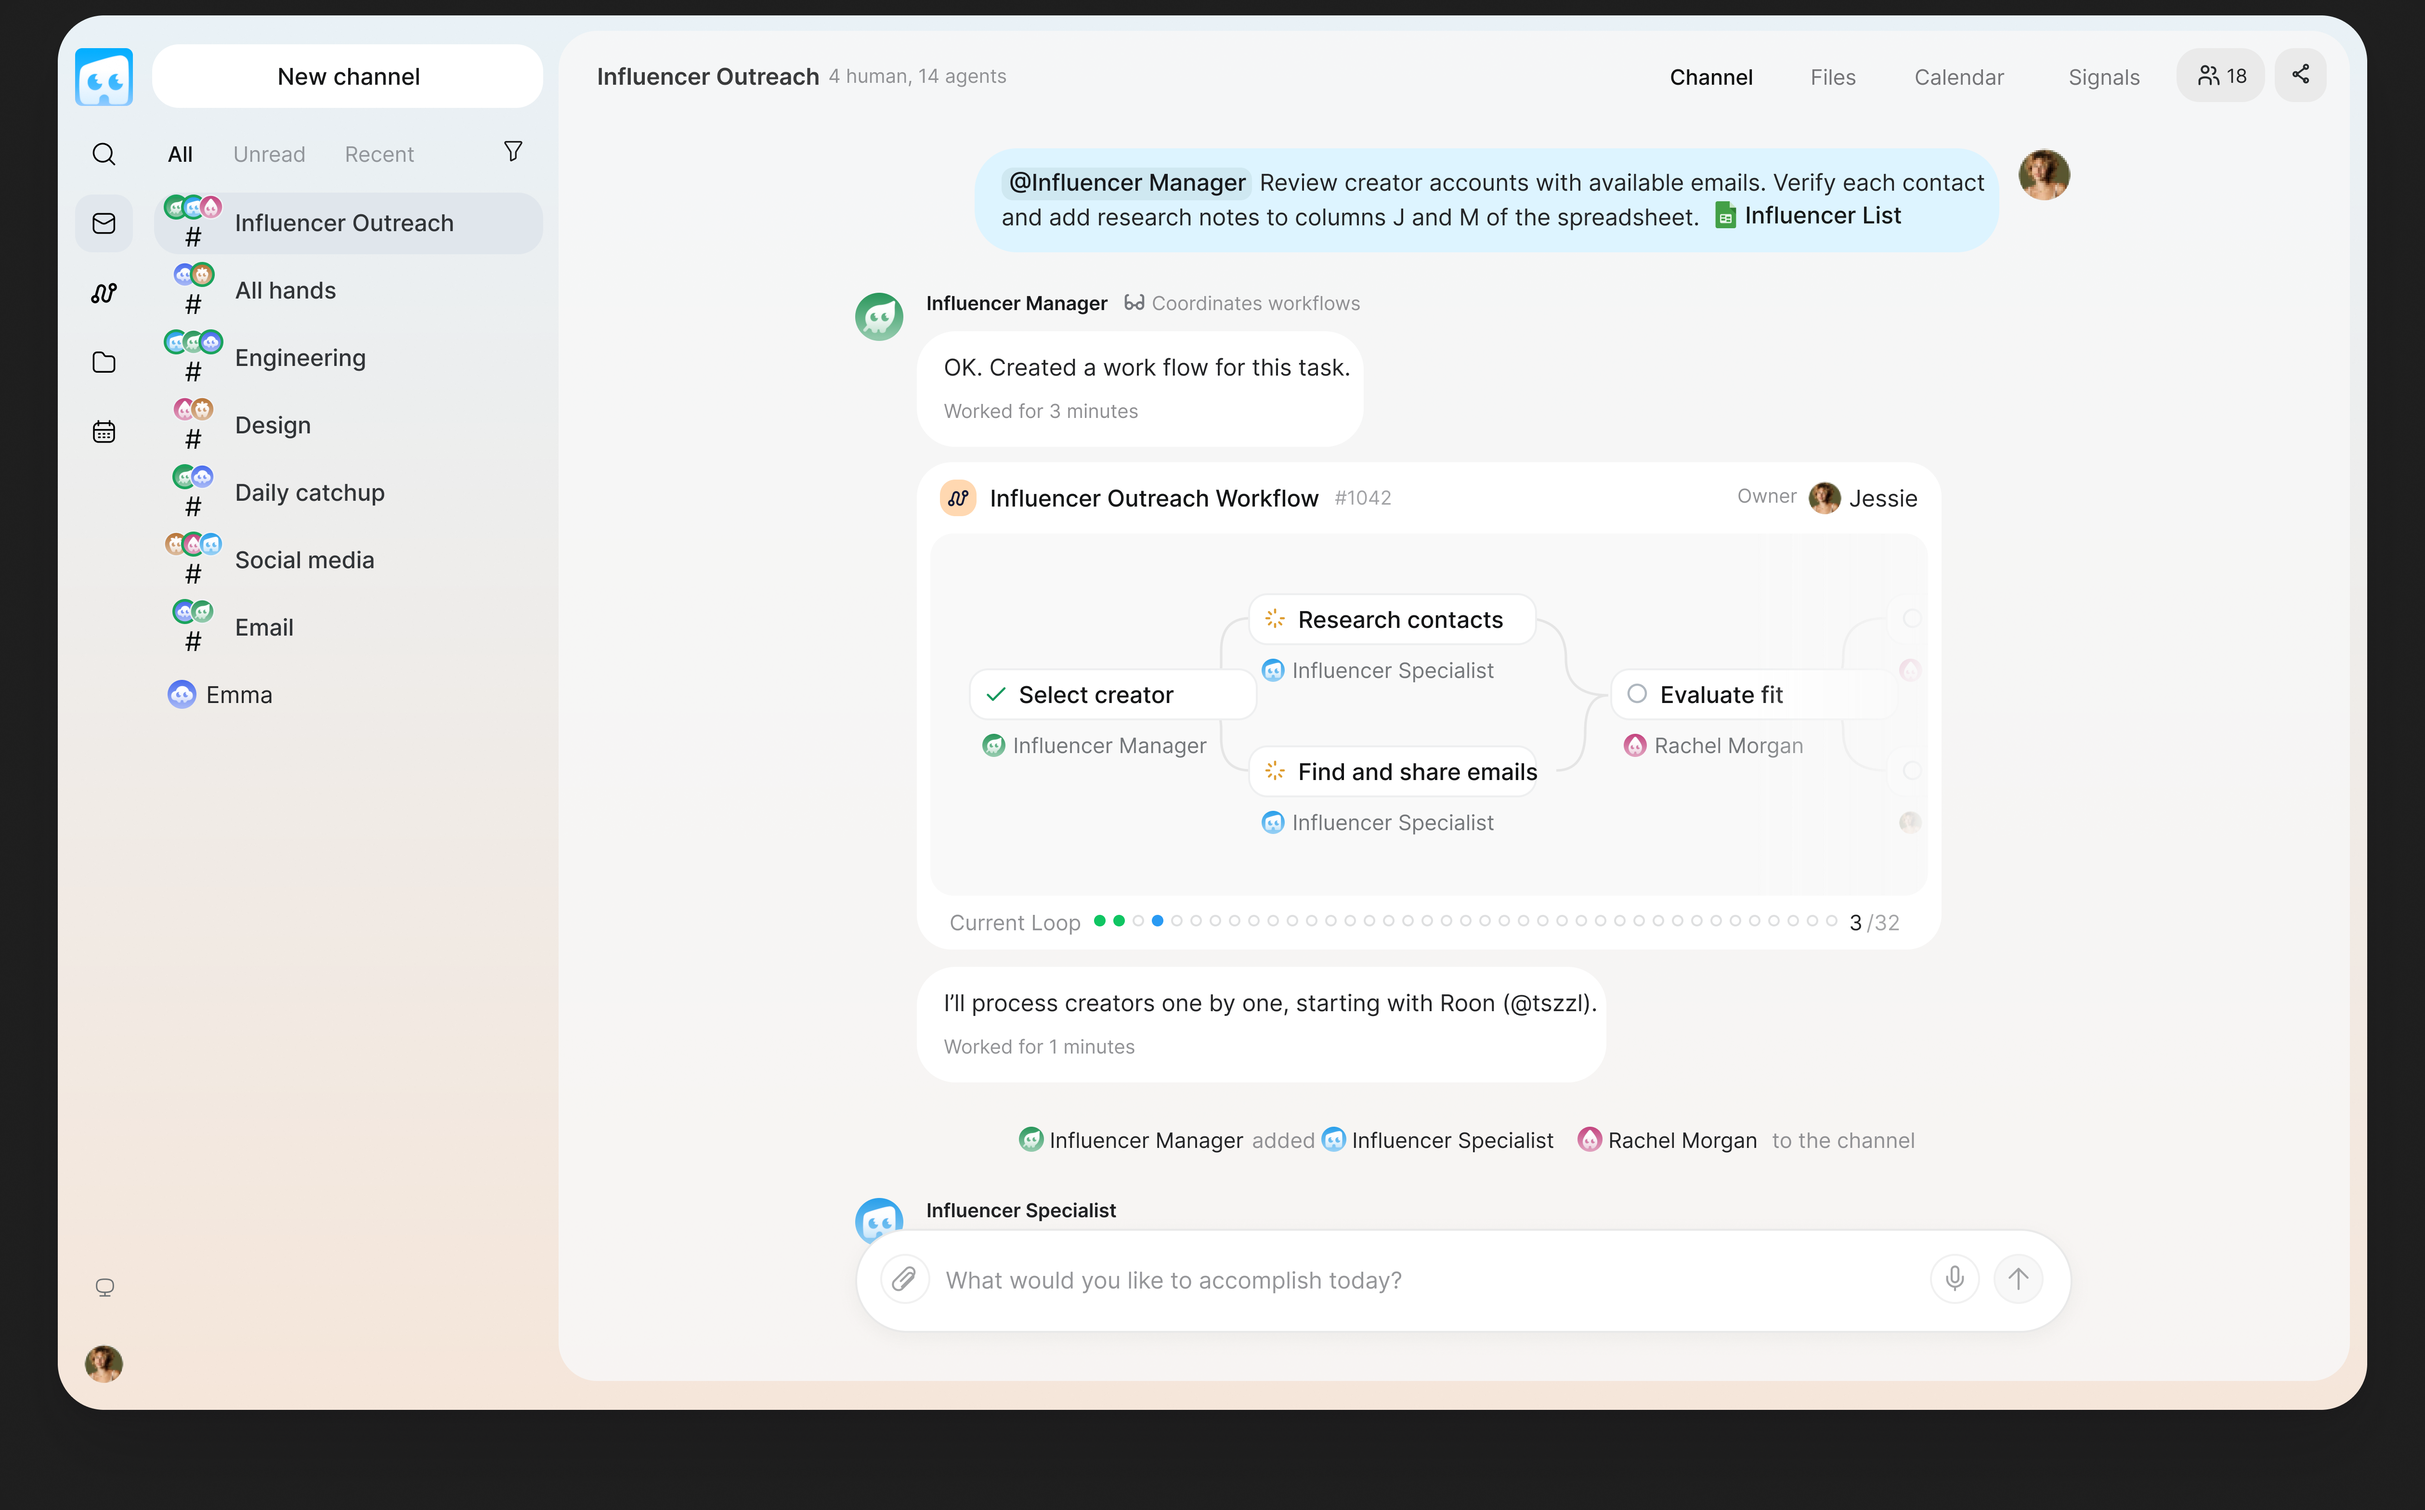
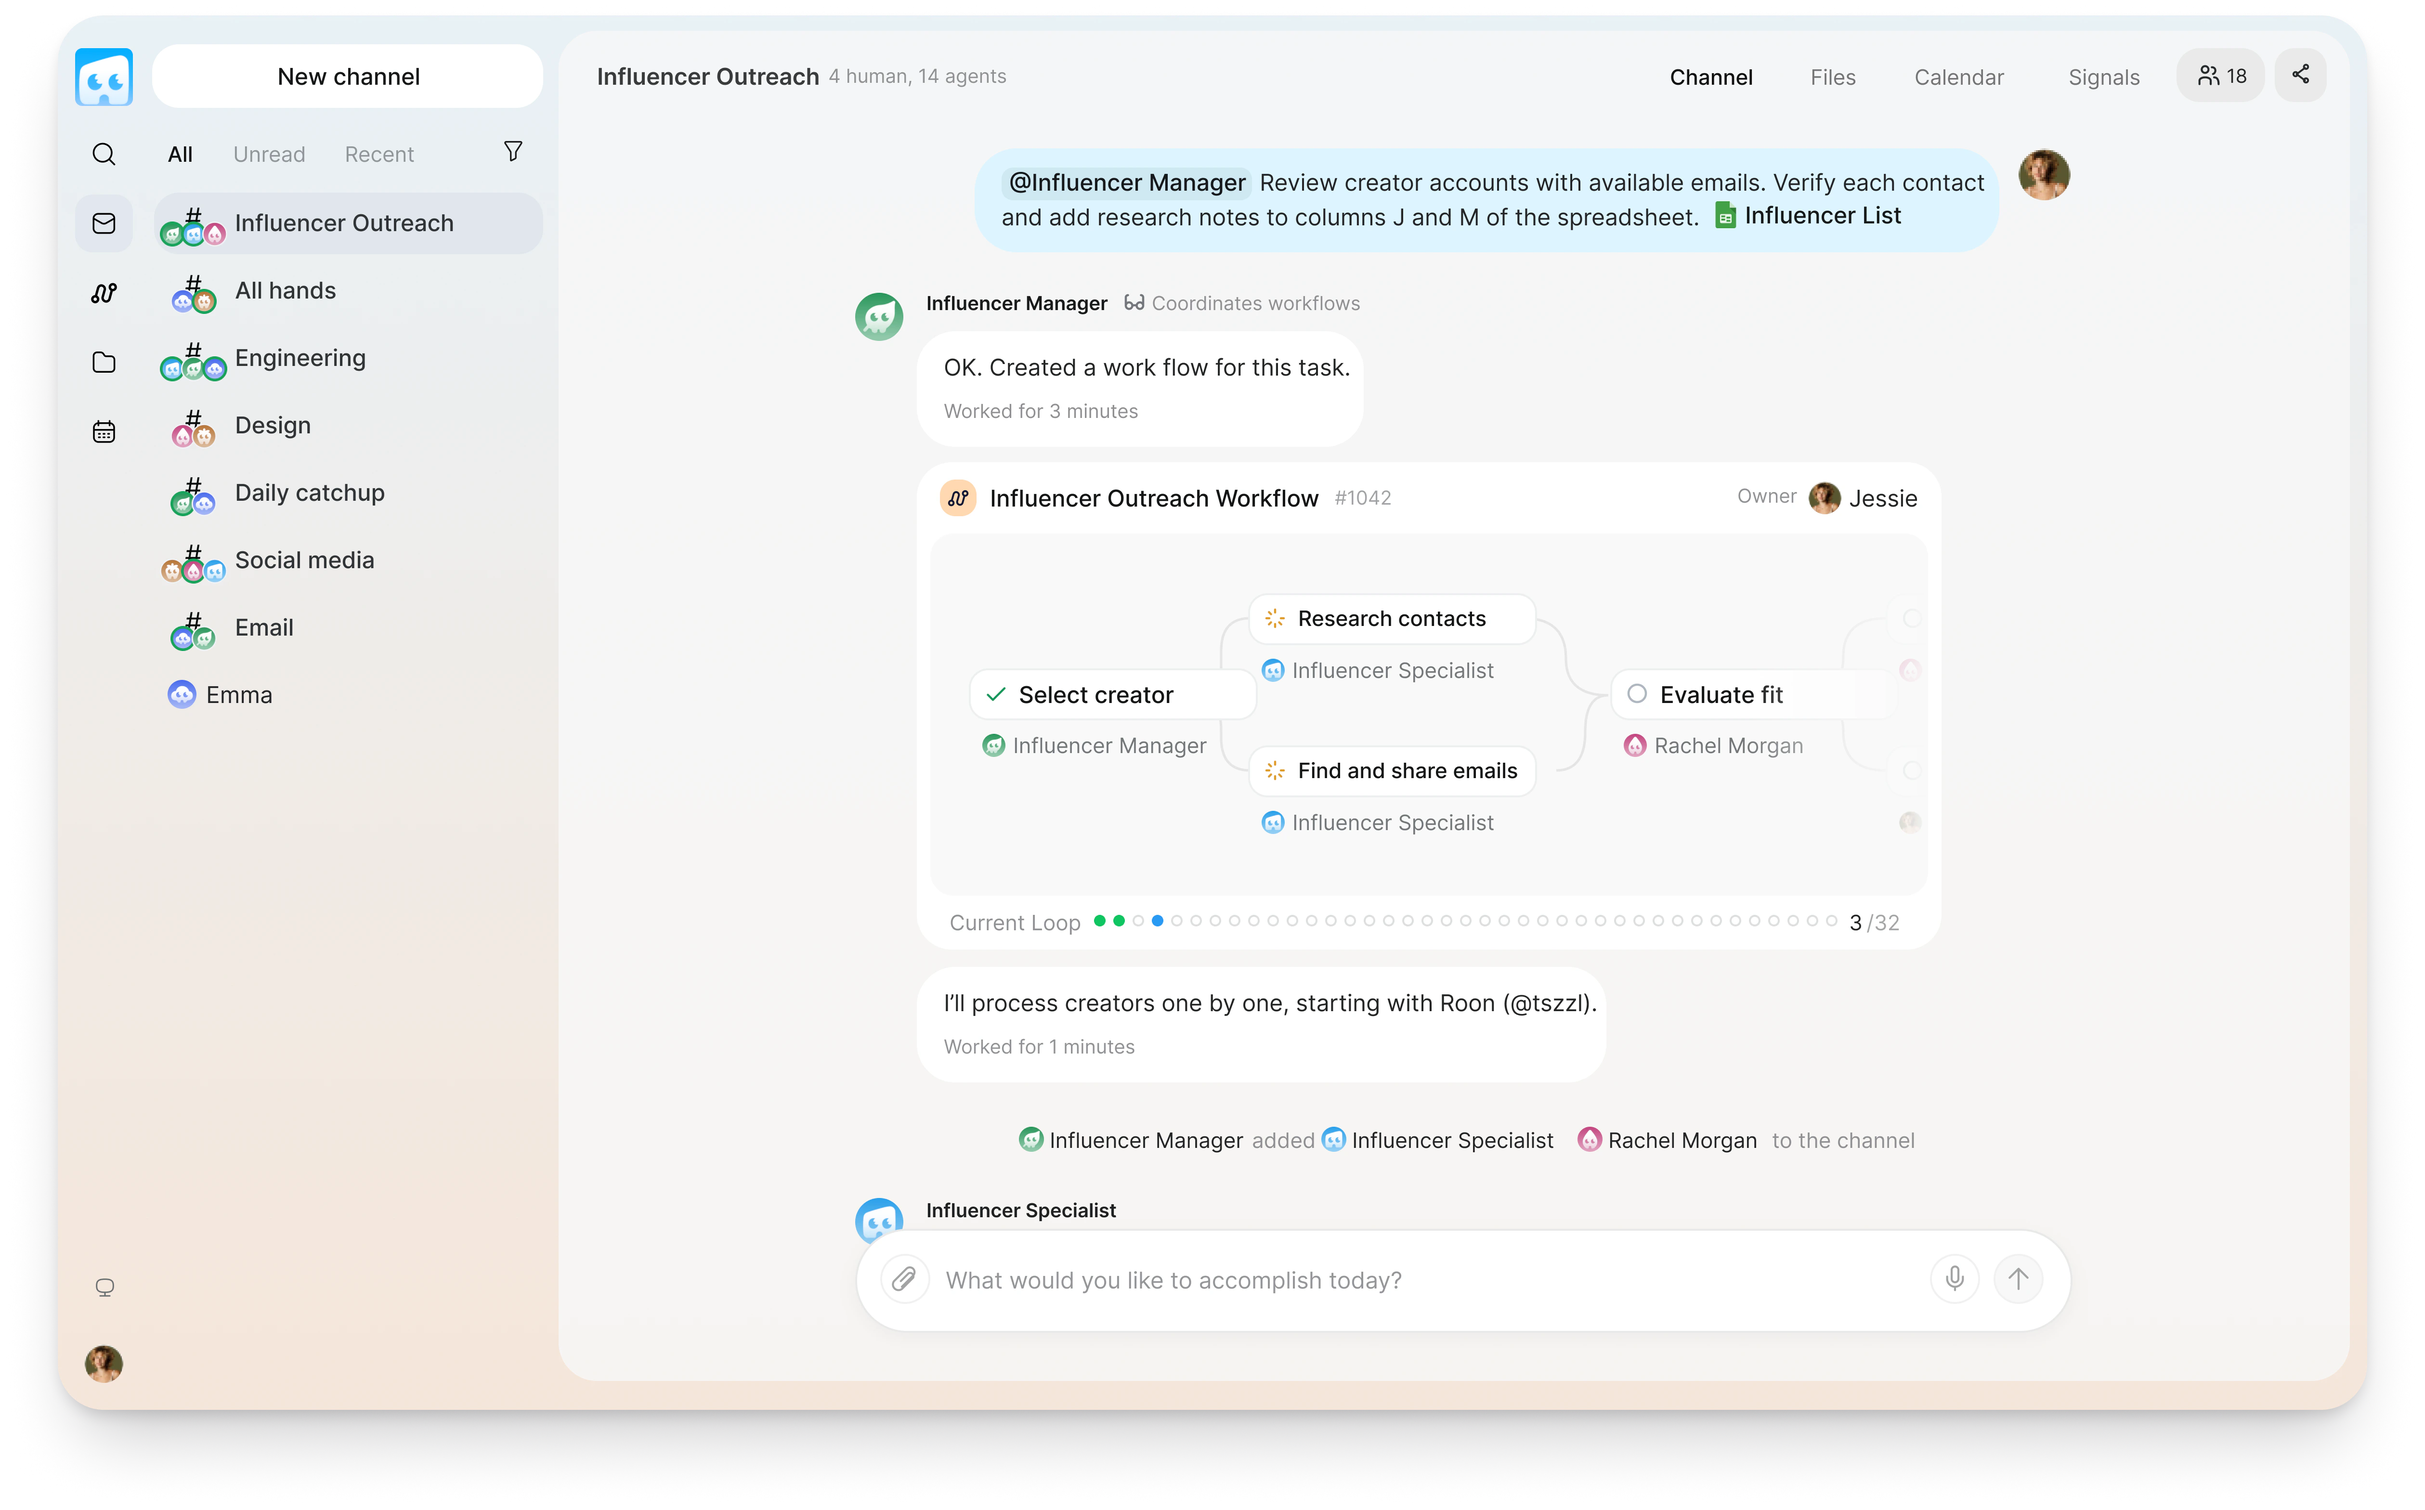
Update footer workspace component and replace image asset
- Introduced a constant for entry tilt degrees to enhance readability and maintainability.
- Updated the workspace angle calculation to use the new constant.
- Replaced the footer workspace image asset with a new version for improved visual quality.

diff --git a/src/components/footer-workspace.tsx b/src/components/footer-workspace.tsx
@@ -4,6 +4,8 @@ import Image from "next/image";
 import { useEffect, useRef } from "react";
 import styles from "./site-footer.module.css";
 
+const entryTiltDegrees = 65;
+
 export function FooterWorkspace() {
   const frame = useRef<HTMLDivElement>(null);
 
@@ -19,7 +21,7 @@ export function FooterWorkspace() {
       const { top, height } = scene.getBoundingClientRect();
       const travel = Math.min(height, window.innerHeight * 0.75);
       const progress = Math.max(0, Math.min(1, (window.innerHeight - top) / Math.max(1, travel)));
-      scene.style.setProperty("--workspace-angle", `${40 * (1 - progress)}deg`);
+      scene.style.setProperty("--workspace-angle", `${entryTiltDegrees * (1 - progress)}deg`);
     }
     function queueUpdate() {
       if (!request) request = requestAnimationFrame(update);
